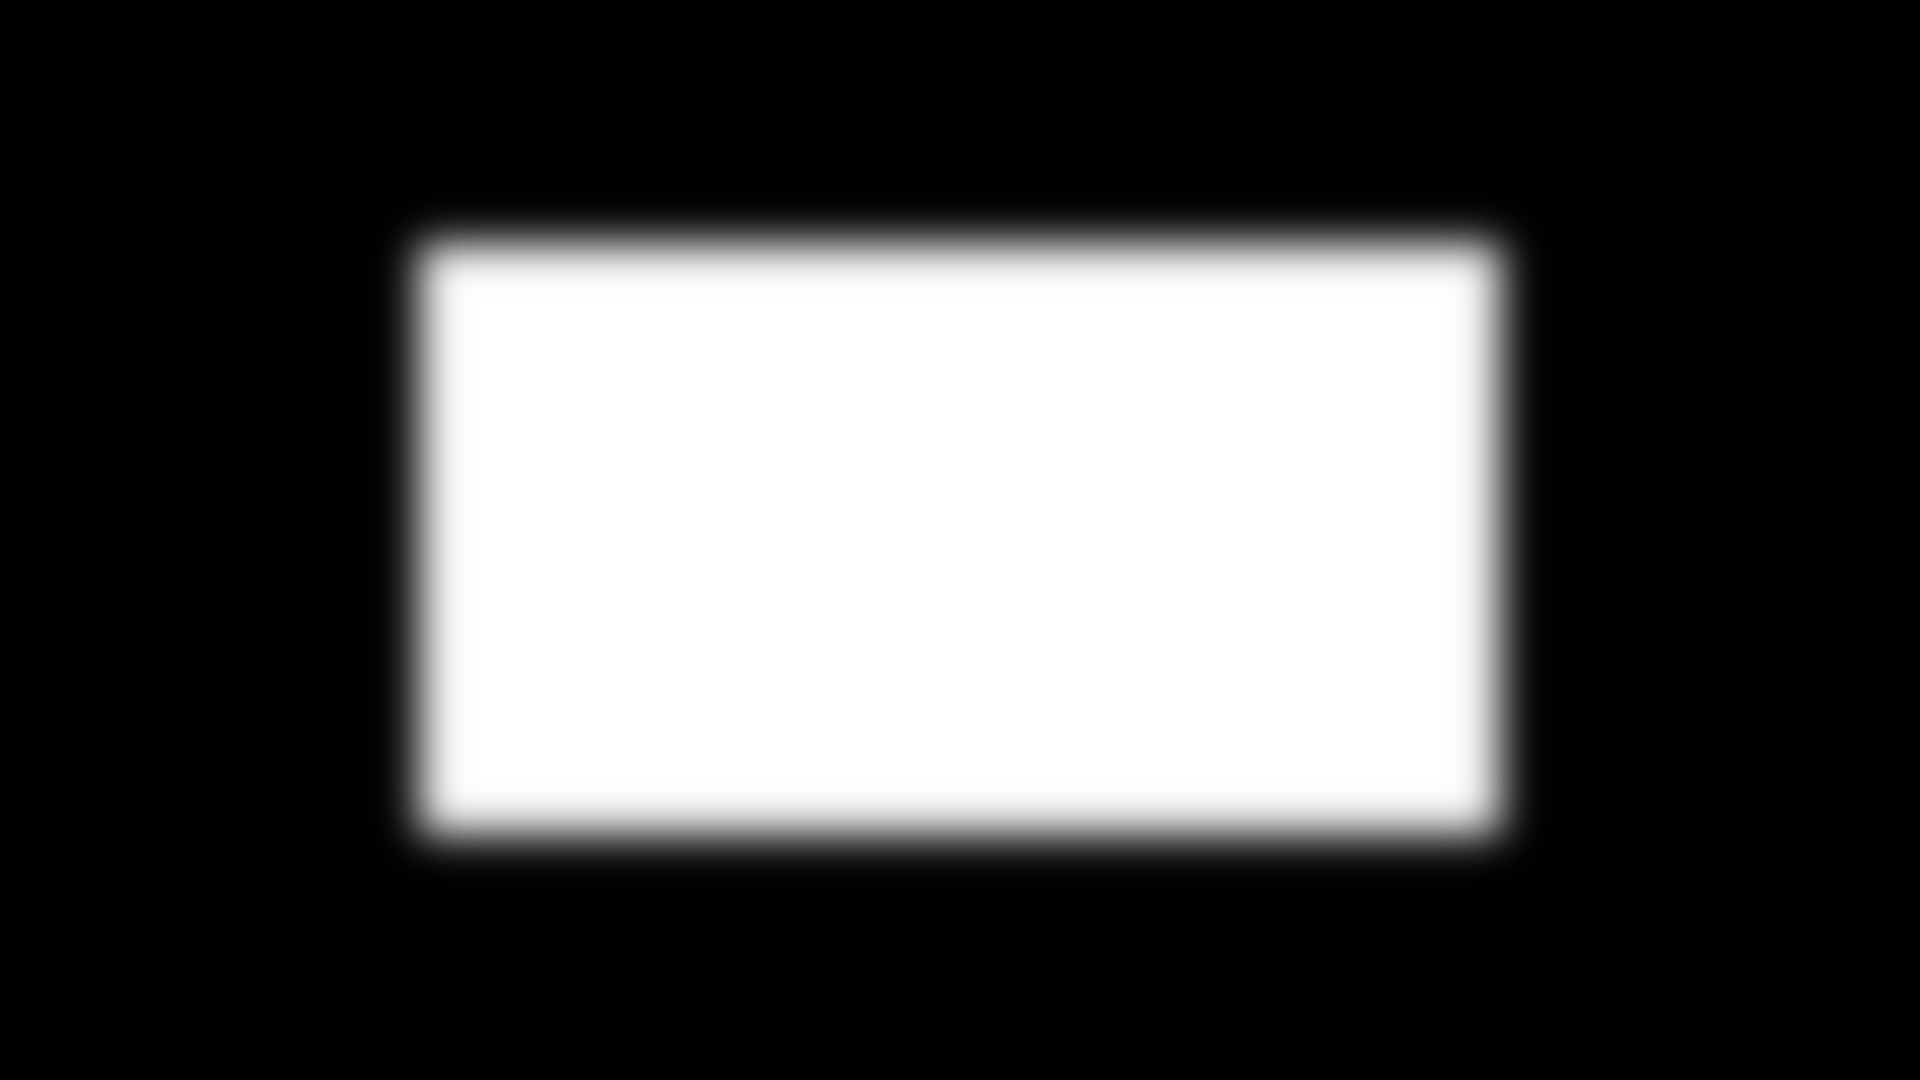
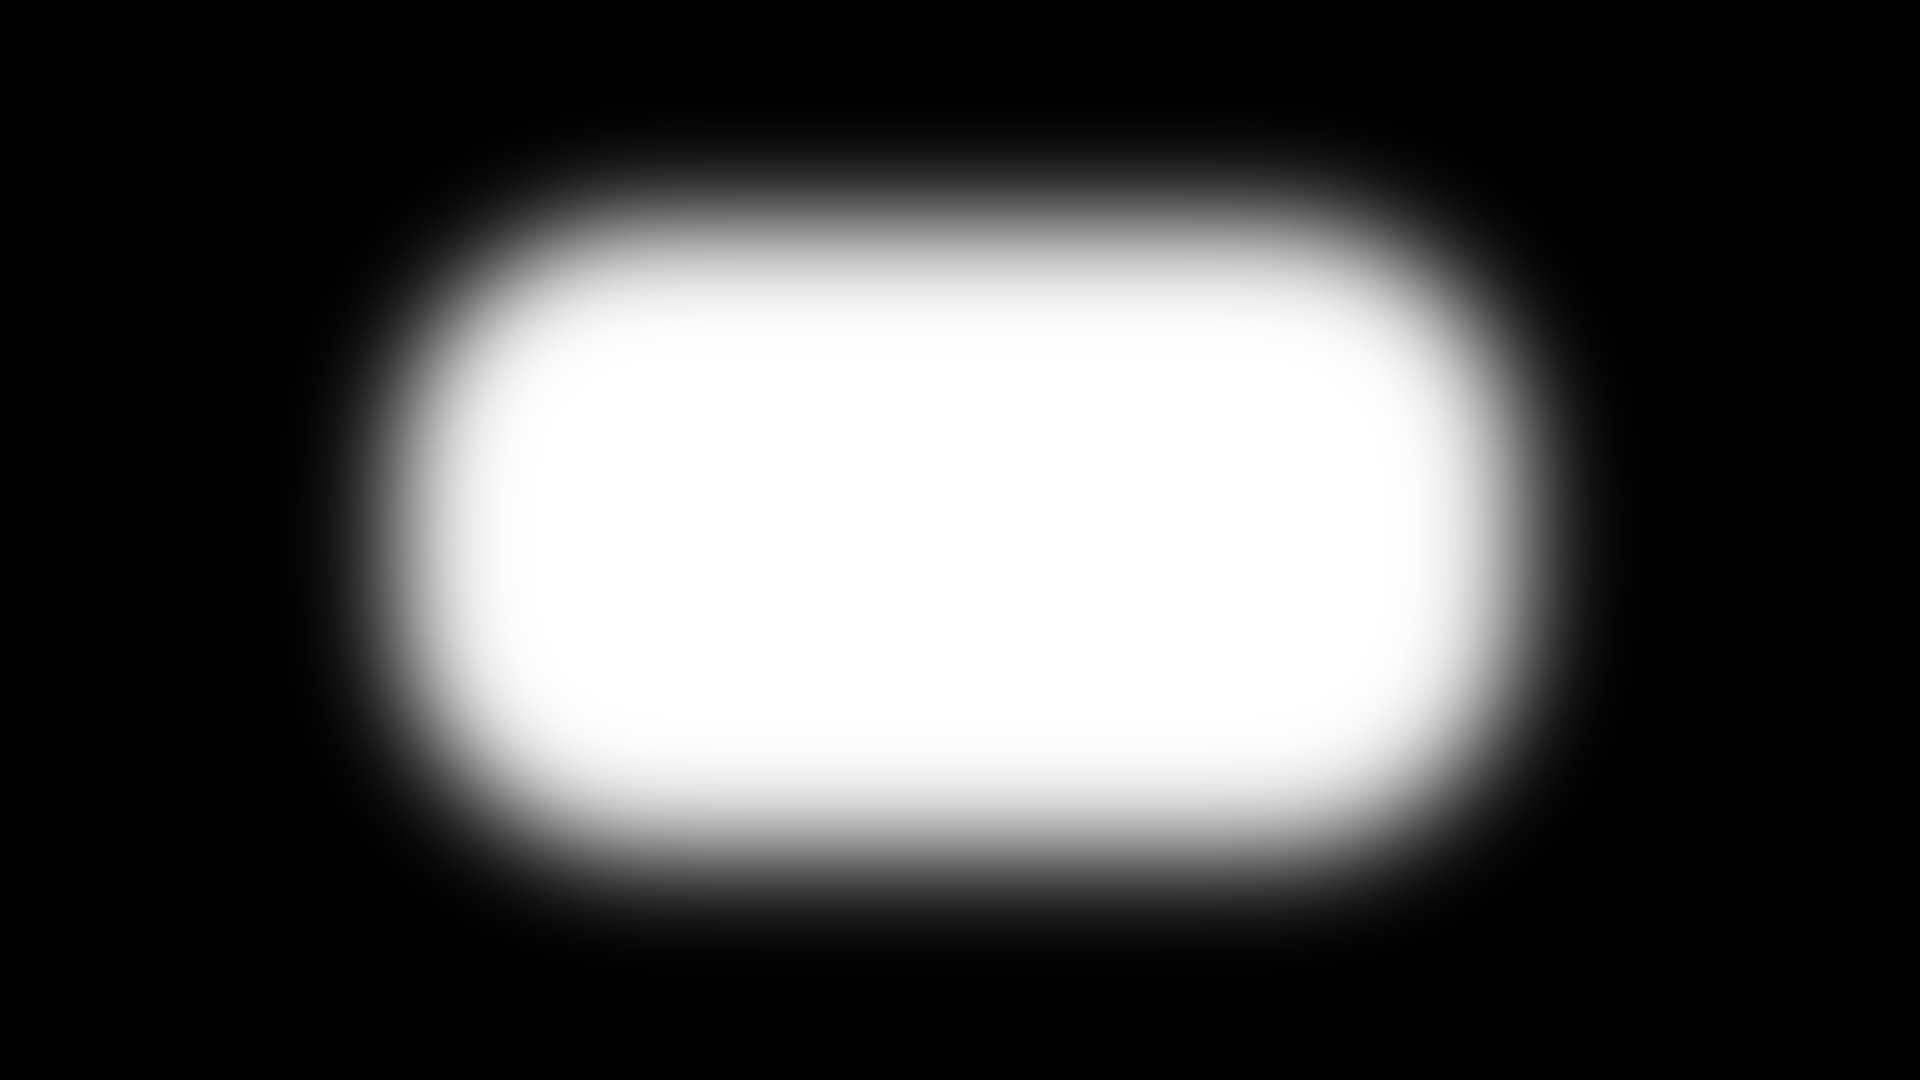
update

Changed region(s): [[0.1562, 0.1222, 0.8438, 0.8556]]

diff --git a/FyamaWinter14/src/AlphaMask.cpp b/FyamaWinter14/src/AlphaMask.cpp
@@ -81,8 +81,8 @@ void AlphaMask::maskRect(){
     //float maskOffsetX =  ofMap(app->oscControl->controlVal[3], 0, 127, -mask.getWidth(), mask.getWidth() / 3.0);
     //float maskOffsetY =  ofMap(app->oscControl->controlVal[3], 0, 125, -mask.getHeight(), mask.getHeight() / 3.0);
     
-    float maskOffsetX = mask.getWidth() / 5.0;
-    float maskOffsetY = mask.getHeight() / 4.5;
+    float maskOffsetX = mask.getWidth() / 5.5;
+    float maskOffsetY = mask.getHeight() / 5.7;
     
     glMultiTexCoord2d(GL_TEXTURE0_ARB, 0, 0);
     glMultiTexCoord2d(GL_TEXTURE1_ARB, maskOffsetX, maskOffsetY);
